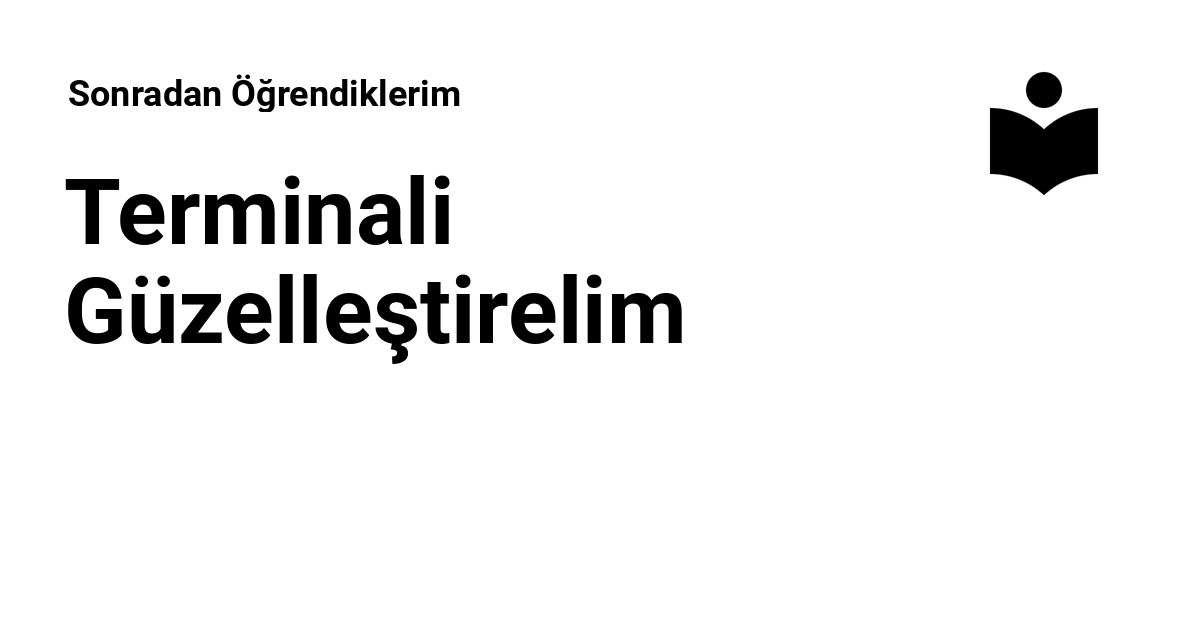
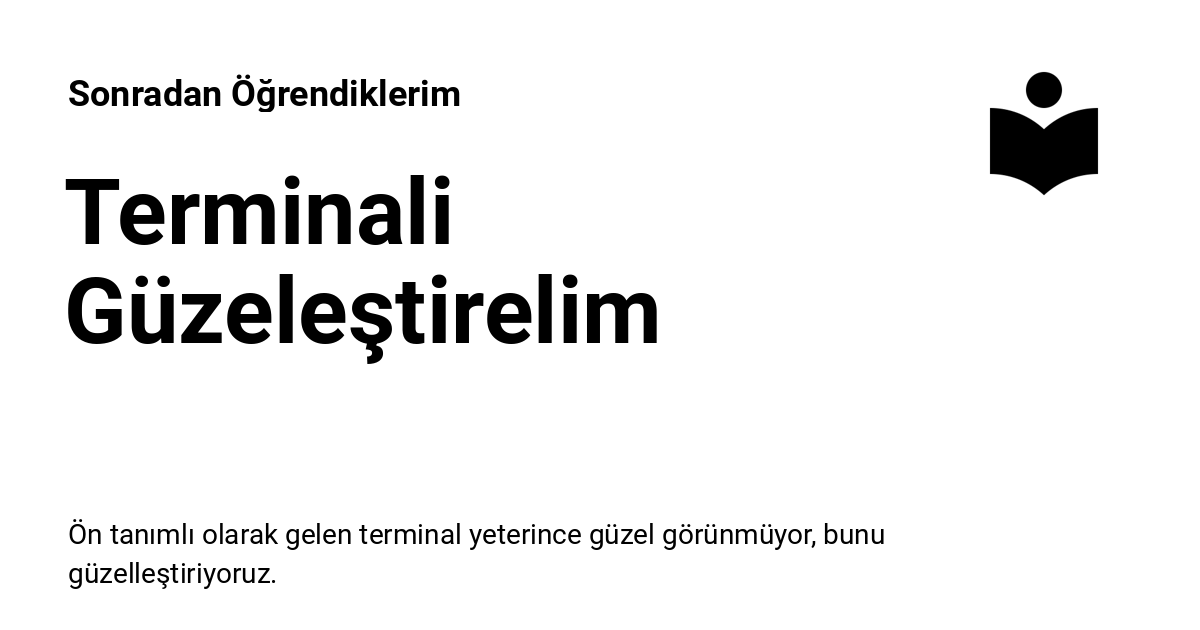
Deployed 356b1d6 with MkDocs version: 1.5.3

Changed region(s): [[0.0617, 0.8143, 0.74, 0.9349], [0.2467, 0.4222, 0.5858, 0.573]]

diff --git a/ubuntu/terminali-guzellestirelim/index.html b/ubuntu/terminali-guzellestirelim/index.html
@@ -6,6 +6,8 @@
       <meta charset="utf-8">
       <meta name="viewport" content="width=device-width,initial-scale=1">
       
+        <meta name="description" content="Ön tanımlı olarak gelen terminal yeterince güzel görünmüyor, bunu güzelleştiriyoruz.">
+      
       
         <meta name="author" content="Eren Türkay">
       
@@ -24,7 +26,7 @@
     
     
       
-        <title>Terminali Güzelleştirelim - Sonradan Öğrendiklerim</title>
+        <title>Terminali Güzeleştirelim - Sonradan Öğrendiklerim</title>
       
     
     
@@ -71,9 +73,9 @@
       
         <meta  property="og:type"  content="website" >
       
-        <meta  property="og:title"  content="Terminali Güzelleştirelim - Sonradan Öğrendiklerim" >
+        <meta  property="og:title"  content="Terminali Güzeleştirelim - Sonradan Öğrendiklerim" >
       
-        <meta  property="og:description"  content="None" >
+        <meta  property="og:description"  content="Ön tanımlı olarak gelen terminal yeterince güzel görünmüyor, bunu güzelleştiriyoruz." >
       
         <meta  property="og:image"  content="https://sonradanogrendiklerim.com/assets/images/social/ubuntu/terminali-guzellestirelim.png" >
       
@@ -87,9 +89,9 @@
       
         <meta  name="twitter:card"  content="summary_large_image" >
       
-        <meta  name="twitter:title"  content="Terminali Güzelleştirelim - Sonradan Öğrendiklerim" >
+        <meta  name="twitter:title"  content="Terminali Güzeleştirelim - Sonradan Öğrendiklerim" >
       
-        <meta  name="twitter:description"  content="None" >
+        <meta  name="twitter:description"  content="Ön tanımlı olarak gelen terminal yeterince güzel görünmüyor, bunu güzelleştiriyoruz." >
       
         <meta  name="twitter:image"  content="https://sonradanogrendiklerim.com/assets/images/social/ubuntu/terminali-guzellestirelim.png" >
       
@@ -110,6 +112,11 @@
     <input class="md-toggle" data-md-toggle="search" type="checkbox" id="__search" autocomplete="off">
     <label class="md-overlay" for="__drawer"></label>
     <div data-md-component="skip">
+      
+        
+        <a href="#on-tanml-ayarlar" class="md-skip">
+          Ana içeriğe geç
+        </a>
       
     </div>
     <div data-md-component="announce">
@@ -141,7 +148,7 @@
         <div class="md-header__topic" data-md-component="header-topic">
           <span class="md-ellipsis">
             
-              Terminali Güzelleştirelim
+              Terminali Güzeleştirelim
             
           </span>
         </div>
@@ -536,6 +543,17 @@
       
       
       
+        <label class="md-nav__link md-nav__link--active" for="__toc">
+          
+  
+  <span class="md-ellipsis">
+    Terminali Güzelleştirelim
+  </span>
+  
+
+          <span class="md-nav__icon md-icon"></span>
+        </label>
+      
       <a href="./" class="md-nav__link md-nav__link--active">
         
   
@@ -545,6 +563,59 @@
   
 
       </a>
+      
+        
+
+<nav class="md-nav md-nav--secondary" aria-label="İçindekiler">
+  
+  
+  
+  
+    <label class="md-nav__title" for="__toc">
+      <span class="md-nav__icon md-icon"></span>
+      İçindekiler
+    </label>
+    <ul class="md-nav__list" data-md-component="toc" data-md-scrollfix>
+      
+        <li class="md-nav__item">
+  <a href="#on-tanml-ayarlar" class="md-nav__link">
+    <span class="md-ellipsis">
+      Ön Tanımlı Ayarlar
+    </span>
+  </a>
+  
+</li>
+      
+        <li class="md-nav__item">
+  <a href="#shell" class="md-nav__link">
+    <span class="md-ellipsis">
+      Shell
+    </span>
+  </a>
+  
+</li>
+      
+        <li class="md-nav__item">
+  <a href="#bash" class="md-nav__link">
+    <span class="md-ellipsis">
+      Bash
+    </span>
+  </a>
+  
+</li>
+      
+        <li class="md-nav__item">
+  <a href="#zsh" class="md-nav__link">
+    <span class="md-ellipsis">
+      Zsh
+    </span>
+  </a>
+  
+</li>
+      
+    </ul>
+  
+</nav>
       
     </li>
   
@@ -877,6 +948,50 @@
   
   
   
+    <label class="md-nav__title" for="__toc">
+      <span class="md-nav__icon md-icon"></span>
+      İçindekiler
+    </label>
+    <ul class="md-nav__list" data-md-component="toc" data-md-scrollfix>
+      
+        <li class="md-nav__item">
+  <a href="#on-tanml-ayarlar" class="md-nav__link">
+    <span class="md-ellipsis">
+      Ön Tanımlı Ayarlar
+    </span>
+  </a>
+  
+</li>
+      
+        <li class="md-nav__item">
+  <a href="#shell" class="md-nav__link">
+    <span class="md-ellipsis">
+      Shell
+    </span>
+  </a>
+  
+</li>
+      
+        <li class="md-nav__item">
+  <a href="#bash" class="md-nav__link">
+    <span class="md-ellipsis">
+      Bash
+    </span>
+  </a>
+  
+</li>
+      
+        <li class="md-nav__item">
+  <a href="#zsh" class="md-nav__link">
+    <span class="md-ellipsis">
+      Zsh
+    </span>
+  </a>
+  
+</li>
+      
+    </ul>
+  
 </nav>
                   </div>
                 </div>
@@ -892,7 +1007,29 @@
 
   <h1>Terminali Güzelleştirelim</h1>
 
-
+<h2 id="on-tanml-ayarlar">Ön Tanımlı Ayarlar<a class="headerlink" href="#on-tanml-ayarlar" title="Permanent link">&para;</a></h2>
+<p>Önceki bölümde gördüğümüz terminal sadece kendisine kadar konfigürasyon içeriyor. Dilerseniz bu
+şekilde de kullanabilirsiniz ancak ben bu şekilde kullanmayı tercih etmiyorum.</p>
+<!-- markdownlint-disable MD033 -->
+<figure>
+  <img alt="Gnome Terminal" src="https://linuxhint.com/wp-content/uploads/2019/11/1-45.png" />
+  <figcaption>Ön tanımlı Gnome terminali</figcaption>
+</figure>
+<p>Zamanımızın neredeyse tamamı bu uygulama içerisinde geçeceğinden olabildiğince rahat edebileceğim
+şekilde ayarlamayı tercih ediyorum. Bu bölümde <a href="https://simple.wikipedia.org/wiki/Unix_shell" target="_blank">shell</a> nedir,
+<a href="https://en.wikipedia.org/wiki/Bash_(Unix_shell)" target="_blank">bash</a> yerine <a href="https://en.wikipedia.org/wiki/Z_shell" target="_blank">zsh</a> nasıl kullanılır ve
+zsh ayarları nasıl yapılır göreceğiz.</p>
+<h2 id="shell">Shell<a class="headerlink" href="#shell" title="Permanent link">&para;</a></h2>
+<p>Buna bir çeşit farklı bir kullanıcı arayüzü diyebiliriz. Şu anda ekranda gördüğünüz bir grafik
+arayüzü. Bilgisayarınızla grafik arayüzü ile işlem yapıyorsunuz ve grafik arayüzünün size tanıdığı
+olanaklar ne ise onunla sınırlısınız. Dosya kopyalama, düzenleme, silme gibi işlemleri sizden
+istenilen şekilde yapmak durumundasınız. Windows, OS X gibi kullanıcı arayüzlerini burada örnek
+gösterebiliriz.</p>
+<p>Arayüzler sadece grafik ile sınırlı değil. Metin tabanlı arayüzler de bunlardan bir tanesi ve biz
+metin tabanlı arayüzler ile ilgileniyoruz. Hatırlarsanız metin tabanlı <a href="../terminal/#terminal">arayüzleri</a> önceki
+bölümde görmüştük ve modern dünyada <a href="../terminal/#linux-terminal-emulatoru">emüle</a> ederek kullanıyorduk.</p>
+<h2 id="bash">Bash<a class="headerlink" href="#bash" title="Permanent link">&para;</a></h2>
+<h2 id="zsh">Zsh<a class="headerlink" href="#zsh" title="Permanent link">&para;</a></h2>
 
 
 
